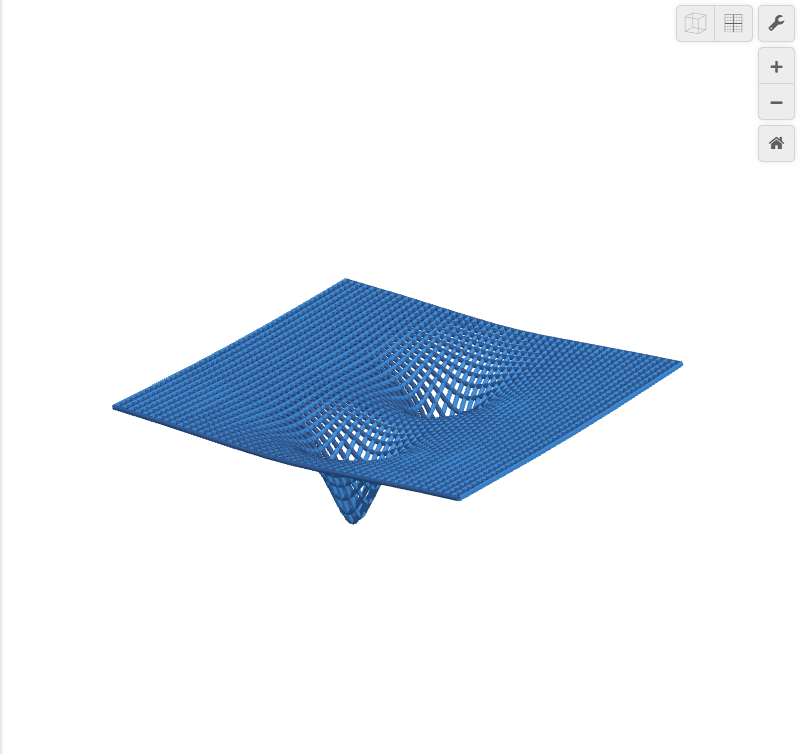
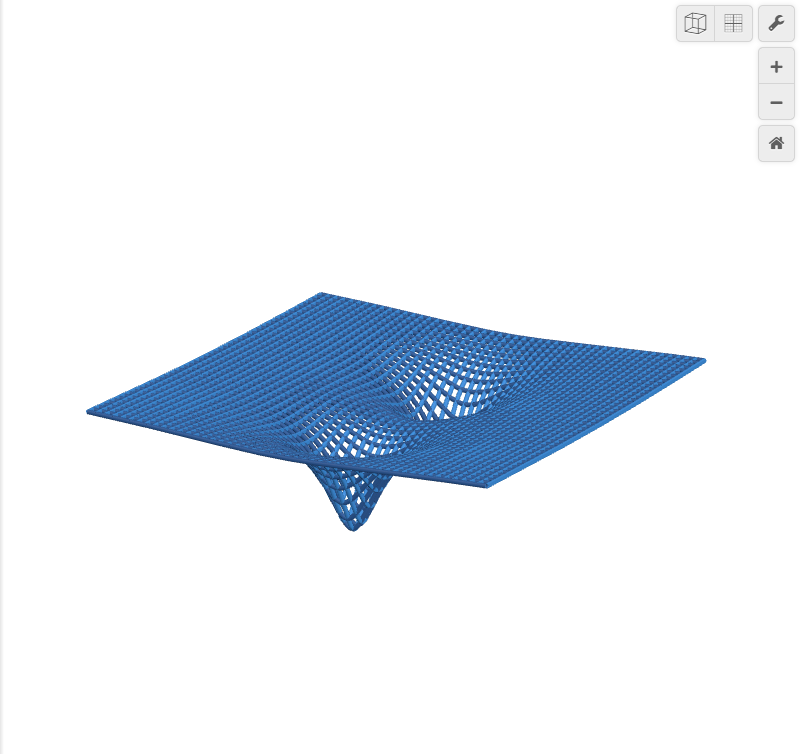
feat: inspiral spiral wave, folders, camera in state, refreshed checkpoints
Add a weak retarded-phase inspiral spiral (z_i) to the height field, organise
the Desmos editor into folders with a title note, store a horizon-level camera
and tighter viewport in the state, run the MCP server through cmd /c on
Windows, regenerate all checkpoint screenshots, and update the docs.

Changed region(s): [[0.0938, 0.366, 0.875, 0.7016], [0.8438, 0.0, 0.875, 0.061]]

diff --git a/scripts/build_state.py b/scripts/build_state.py
@@ -73,5 +73,64 @@ s["graph"]["__v12ViewportLatexStash"] = {k: str(v) for k, v in vp.items()}
 s["graph"].update(showBox3D=False, showPlane3D=False, showAxis3D=False,
                   axis3D=[False, False, False], showGrid=False)
 
+# --- inspiral radiation: a weak two-arm spiral that grows toward the merger ---
+# Uses the retarded phase phi_0(T - r/v_w), so the arms are wound by the orbit itself.
+if "func_zinsp" not in ex:
+    zin = {"type": "expression", "id": "func_zinsp", "color": "#388c46", "hidden": True,
+           "latex": (r"z_{i}\left(x,y,T\right)=\left\{0<T-\frac{r_{c}\left(x,y\right)}{v_{w}}<T_{m}:"
+                     r"0.35\cdot S\cdot\left(\frac{T-\frac{r_{c}\left(x,y\right)}{v_{w}}}{T_{m}}\right)^{3}"
+                     r"\cdot\frac{\cos\left(2\arctan\left(y,x\right)-2\phi_{0}\left(T-\frac{r_{c}\left(x,y\right)}{v_{w}}\right)\right)}"
+                     r"{1+0.35\cdot r_{c}\left(x,y\right)},0\right\}")}
+    lst.insert(lst.index(ex["func_ztotal"]), zin)
+    ex["func_zinsp"] = zin
+latex("func_ztotal", r"Z\left(x,y,T\right)=z_{g}\left(x,y,T\right)+z_{w}\left(x,y,T\right)+z_{i}\left(x,y,T\right)")
+
+# --- camera: horizon-level world rotation (column-major 3x3), yaw/elevation in degrees
+import math
+def world_rotation(yaw, elev):
+    cy, sy = math.cos(math.radians(yaw)), math.sin(math.radians(yaw))
+    ce, se = math.cos(math.radians(elev)), math.sin(math.radians(elev))
+    r0, r1, r2 = (-ce * sy, ce * cy, -se), (-cy, -sy, 0.0), (-se * sy, se * cy, ce)
+    return [round(v, 6) for v in (r0[0], r1[0], r2[0], r0[1], r1[1], r2[1], r0[2], r1[2], r2[2])]
+
+s["graph"]["worldRotation3D"] = world_rotation(yaw=30, elev=18)
+vp.update(xmin=-6.8, xmax=6.8, ymin=-6.8, ymax=6.8, zmin=-4.8, zmax=4.8)
+s["graph"]["viewport"] = vp
+s["graph"]["__v12ViewportLatexStash"] = {k: str(v) for k, v in vp.items()}
+
+# --- organisation: title note + folders (ids of model expressions unchanged) --
+def folder(fid, title, collapsed):
+    return {"type": "folder", "id": fid, "title": title, "collapsed": collapsed}
+
+groups = [
+    ("f_controls", "Controls", False,
+     ["time_T", "time_Tm", "rad_R0", "mass_m1", "mass_m2", "amp_A", "scale_S", "wave_v", "wave_k",
+      "wave_sig", "eps"]),
+    ("f_model", "Model (kinematics and fields)", True,
+     ["func_R", "func_phi", "coord_x1", "coord_y1", "coord_x2", "coord_y2", "dist_r1", "dist_r2",
+      "dist_rc", "func_zgrav", "func_ur", "func_zwave", "func_zinsp", "func_ztotal"]),
+    ("f_fabric", "Spacetime fabric", True, ["grid_list", "grid_lines_x", "grid_lines_y"]),
+    ("f_optional", "Optional markers (hidden)", True,
+     ["trail_obj1", "trail_obj2", "bh_point1", "bh_point2", "rg1", "rg2", "ring_bh1", "ring_bh2"]),
+]
+title = {"type": "text", "id": "note_title",
+         "text": ("Binary merger and spacetime ripple. A mathematical visualization inspired by general "
+                  "relativity (not an exact simulation). Press play on T: orbit, inspiral, merger at T_m, "
+                  "then an outward gravitational-wave-like ripple. S only exaggerates the display height.")}
+placed = set()
+new_list = [title]
+for fid, ftitle, collapsed, ids in groups:
+    new_list.append(folder(fid, ftitle, collapsed))
+    for i in ids:
+        if i in ex:
+            ex[i]["folderId"] = fid
+            new_list.append(ex[i])
+            placed.add(i)
+for e in lst:
+    if e["id"] not in placed and e.get("type") == "expression":
+        new_list.append(e)
+        print("unplaced (kept at end):", e["id"])
+s["expressions"]["list"] = new_list
+
 PATH.write_text(json.dumps(s, indent=2), encoding="utf-8")
 print("wrote", PATH)

diff --git a/docs/EQUATIONS.md b/docs/EQUATIONS.md
@@ -35,7 +35,10 @@
 | `func_zgrav` | `z_g = -A M_1 / r_1^1.4 - A M_2 / r_2^1.4` | Two wells that become one at `R = 0` |
 | `func_ur` | `u_r = T - T_m - r_c / v_w` | **Retarded time**: zero on the wavefront, so the wave is tied to the merger |
 | `func_zwave` | `z_w = S * env(u_r) * (1 + 0.6 cos(2(atan2(y,x) - phi_0(T_m)))) * sin(-k v_w u_r) / (1 + 0.35 r_c)` where `env = exp(-u_r^2/0.5)` for `u_r<0`, `exp(-u_r/sigma)` otherwise | Merger-generated, quadrupolar, ringing-down wave |
-| `func_ztotal` | `Z = z_g + z_w` | Height field used by the grid |
+| `func_zinsp` | `z_i = {0 < T_r < T_m : 0.35 S (T_r/T_m)^3 cos(2 atan2(y,x) - 2 phi_0(T_r)) / (1 + 0.35 r_c), 0}` with `T_r = T - r_c/v_w` | Weak two-arm inspiral spiral, wound by the retarded orbital phase; grows toward the merger (phenomenological) |
+| `func_ztotal` | `Z = z_g + z_w + z_i` | Height field used by the grid |
+
+In the Desmos editor the expressions are grouped into folders: Controls, Model, Spacetime fabric, Optional markers (ids unchanged), with a title note `note_title` at the top.
 
 ## Fabric and markers
 

diff --git a/docs/VISUALIZATION.md b/docs/VISUALIZATION.md
@@ -34,6 +34,6 @@ Checkpoints are in `assets/screenshots/checkpoints/`.
 
 `node scripts/render_checkpoints.js` loads `desmos_state.json` into desmos.com/3d in headless Chromium (Playwright), sets `T`, reports any expression errors and saves a screenshot per checkpoint. It uses no account or credentials.
 
-## Limitations of the Desmos camera
+## Camera
 
-The camera angle is not part of the exported state in the way we can set it, so the default view is Desmos's own. Rotate with the mouse. A lower angle shows the ripple heights best.
+The default view is stored in the state as `graph.worldRotation3D`: a column-major 3x3 rotation that must be horizon-level (Desmos discards it otherwise). `scripts/build_state.py` builds it from a yaw and elevation (`world_rotation(yaw=30, elev=18)`). A low elevation shows funnel depth and ripple heights; about 50 degrees shows the ring and quadrupole pattern from above. The viewport is x, y in [-6.8, 6.8] and z in [-4.8, 4.8].

diff --git a/docs/MODEL.md b/docs/MODEL.md
@@ -61,4 +61,5 @@ Everything is a function of the single slider `T`. There are no independent cloc
 - The wave envelope has a small non-zero tail before `T_m` at small radius. It is a deliberate precursor, not a physical effect.
 - The two wells can look merged from some camera angles around `T = 7`, when the separation is about 3 and the well width about 1.6.
 - Heights are exaggerated (see above). The wave speed `v_w` and wavelength are tuned to fit the grid and the time range, not to any physical system.
+- The inspiral term `z_i` is a weak, phenomenological two-arm spiral, not a post-Newtonian waveform.
 - The orbital plane is fixed to the fabric plane, and only the plus-like quadrupole pattern is drawn. There is no separate `h_x` component.
